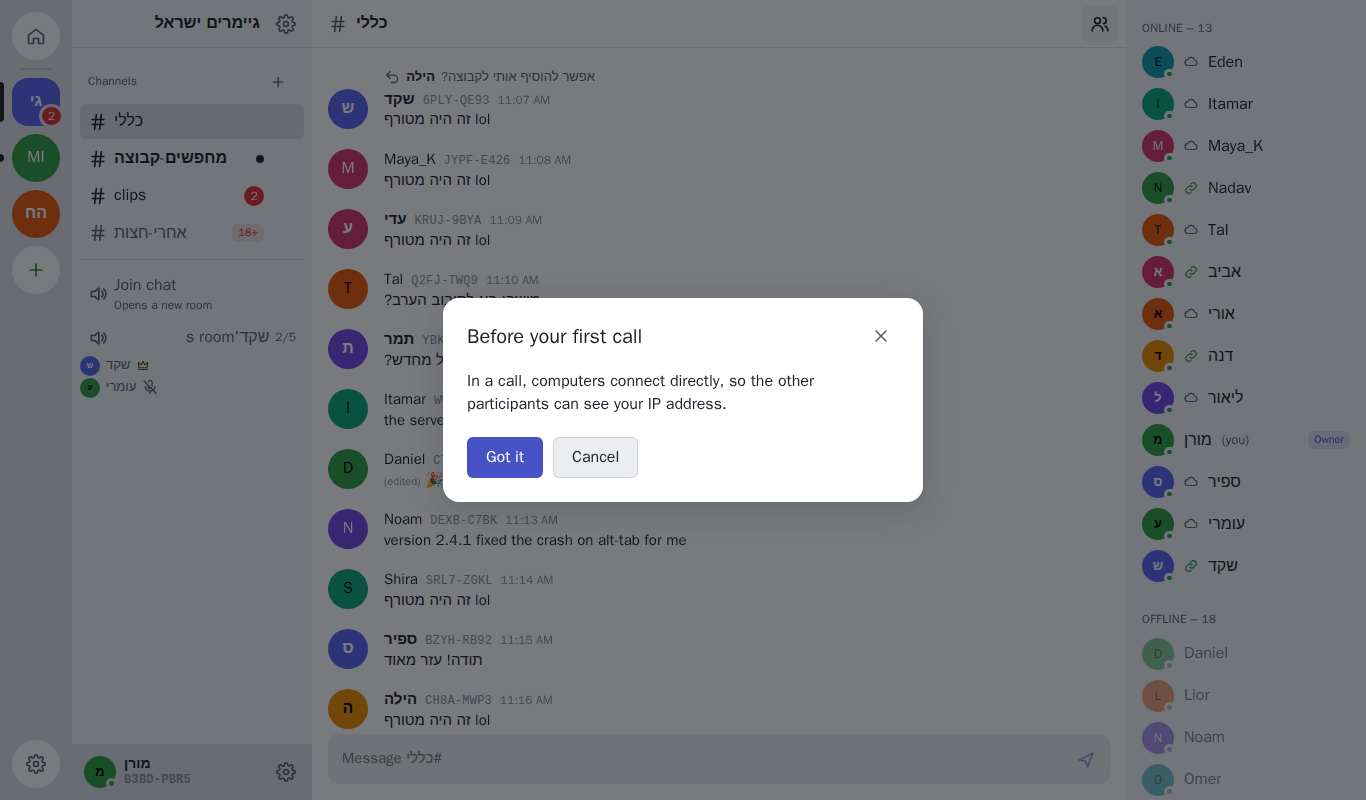
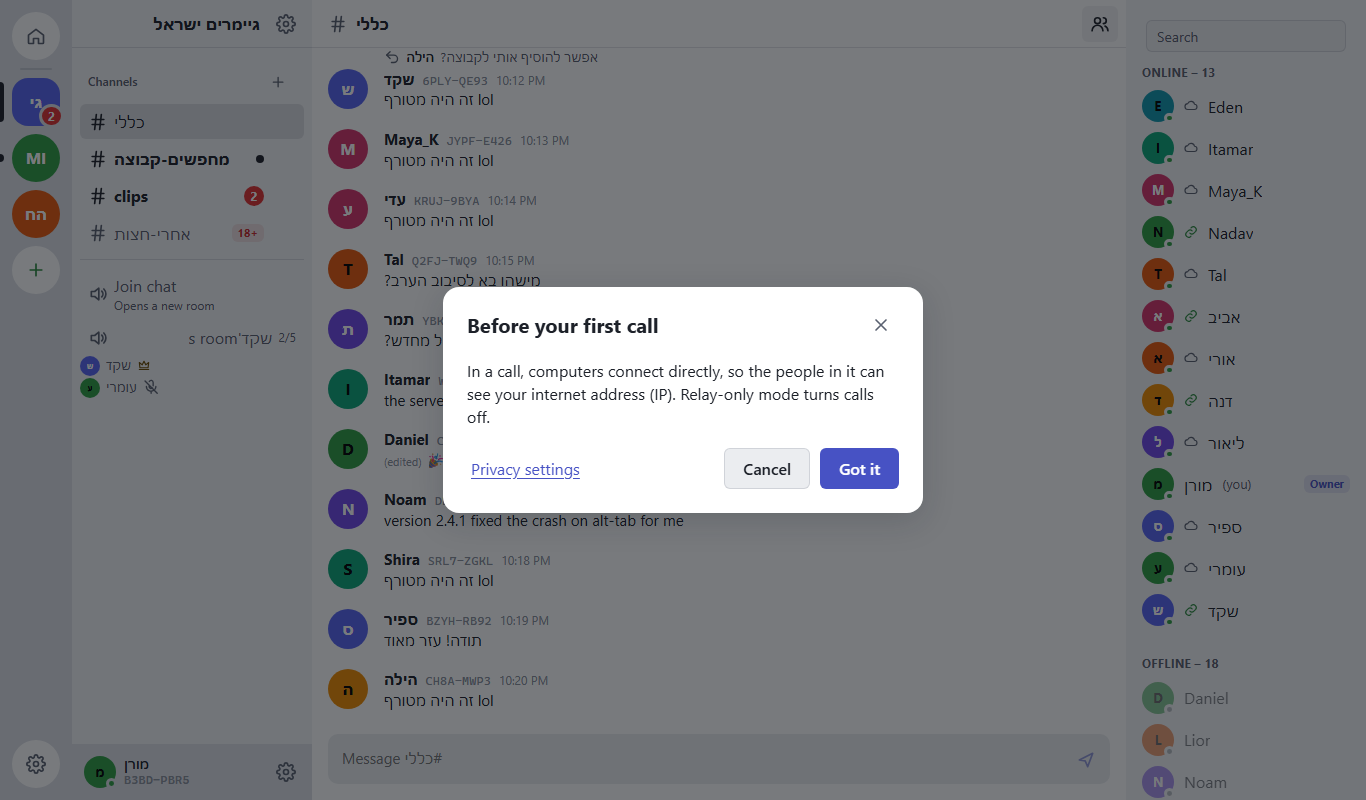
ui: voice IP notice v2 (G-81 STUN): public IP wording, a link to the relay-only switch, key v2
docs/ux/specs/voice-ip-notice.md v2 (#494), SL S2. With STUN, co-callers
learn my public IP: the one-time notice before the first join says so and
that relay-only turns calls off. A new "Privacy settings" link button
(start side; Tab order: settings, Cancel, Got it) neither joins nor
remembers, and opens Settings → Privacy on the relay-only switch. The
stored key is now mvs.notices.voiceIp.v2, so everyone sees it once more.
Screenshots 243 and 244 re-taken.

diff --git a/ui/src/test/voice.test.tsx b/ui/src/test/voice.test.tsx
@@ -74,7 +74,7 @@ const settings: Settings = { locale: 'en', theme: 'light', uiScale: 1, fontSize:
 
 /** `ipNoticeSeen: false` starts as on a computer that never joined a call. */
 async function setup(options: MockOptions = {}, { ipNoticeSeen = true, prefs = {} as Partial<Settings> } = {}) {
-  if (ipNoticeSeen) localStorage.setItem('mvs.notices.voiceIp.v1', '1');
+  if (ipNoticeSeen) localStorage.setItem('mvs.notices.voiceIp.v2', '1');
   const core = new MockCore({ demo: true, speed: 0, simulateActivity: false, ...options });
   render(<App core={core} initialSettings={{ ...settings, ...prefs }} />);
   await screen.findByRole('textbox', { name: /^Message / });
@@ -412,12 +412,12 @@ describe('voice rooms (0.4.3)', () => {
       const inRoom = async () => (await rooms(core))[0].members.length;
       await join();
       const dialog = screen.getByRole('dialog', { name: 'Before your first call' });
-      expect(document.getElementById(dialog.getAttribute('aria-describedby')!)?.textContent).toContain('can see your IP address');
+      expect(document.getElementById(dialog.getAttribute('aria-describedby')!)?.textContent).toContain('can see your internet address (IP)');
       expect(document.activeElement?.textContent).toBe('Got it');
       expect(await inRoom()).toBe(2); // joinCall not called yet
       await click(within(dialog).getByRole('button', { name: 'Got it' }));
       expect(await inRoom()).toBe(3);
-      expect(localStorage.getItem('mvs.notices.voiceIp.v1')).toBe('1');
+      expect(localStorage.getItem('mvs.notices.voiceIp.v2')).toBe('1');
       const bar = screen.getByRole('region', { name: 'Voice call' });
       await waitFor(() => expect(document.activeElement).toBe(within(bar).getByRole('button', { name: 'Mute' })));
       // Leave and open a room: no notice the second time.
@@ -440,10 +440,36 @@ describe('voice rooms (0.4.3)', () => {
       await click(within(screen.getByRole('dialog')).getByRole('button', { name: 'Cancel' }));
       expect(screen.queryByRole('dialog')).toBeNull();
       expect(screen.queryByRole('region', { name: 'Voice call' })).toBeNull();
-      expect(localStorage.getItem('mvs.notices.voiceIp.v1')).toBeNull();
+      expect(localStorage.getItem('mvs.notices.voiceIp.v2')).toBeNull();
       expect(document.activeElement).toBe(entry());
       await join();
       expect(screen.getByRole('dialog', { name: 'Before your first call' })).toBeTruthy();
+    });
+
+    it('v2: "Privacy settings" first in Tab order, then Cancel, then Got it; it says what relay-only does', async () => {
+      const { join } = await setup({}, { ipNoticeSeen: false });
+      await join();
+      const dialog = screen.getByRole('dialog', { name: 'Before your first call' });
+      expect(within(dialog).getAllByRole('button').map((b) => b.textContent).filter((t) => t !== '' && t !== 'Close')).toEqual(['Privacy settings', 'Cancel', 'Got it']);
+      expect(document.getElementById(dialog.getAttribute('aria-describedby')!)?.textContent).toContain('Relay-only mode turns calls off.');
+    });
+
+    it('v2: "Privacy settings" neither joins nor remembers; it opens Settings on the relay-only switch', async () => {
+      const { join } = await setup({}, { ipNoticeSeen: false });
+      await join();
+      await click(within(screen.getByRole('dialog', { name: 'Before your first call' })).getByRole('button', { name: 'Privacy settings' }));
+      expect(screen.queryByRole('region', { name: 'Voice call' })).toBeNull();
+      expect(localStorage.getItem('mvs.notices.voiceIp.v2')).toBeNull();
+      const relaySwitch = await screen.findByRole('switch', { name: /relay only/i });
+      await waitFor(() => expect(document.activeElement).toBe(relaySwitch));
+    });
+
+    it('v2: a computer that saw only the v1 notice sees it once more', async () => {
+      localStorage.setItem('mvs.notices.voiceIp.v1', '1');
+      const { join } = await setup({}, { ipNoticeSeen: false });
+      await join();
+      expect(screen.getByRole('dialog', { name: 'Before your first call' })).toBeTruthy();
+      localStorage.removeItem('mvs.notices.voiceIp.v1');
     });
 
     it('a full room shows no notice: the row is disabled', async () => {

diff --git a/ui/src/screens/shell/VoiceRooms.tsx b/ui/src/screens/shell/VoiceRooms.tsx
@@ -337,6 +337,28 @@ export function VoiceRooms({ server, myId, engine }: { server: ServerSummary; my
           <FormattedMessage id="call.ipNotice.body" />
         </p>
         <div className="actions">
+          {/* v2: to the relay-only switch; neither joins nor remembers (like Cancel). */}
+          <button
+            type="button"
+            className="link ip-notice-settings"
+            onClick={() => {
+              setPending(null);
+              returnTo.current?.focus(); // where focus comes back when Settings closes
+              store.openSettings('privacy');
+            }}
+          >
+            <FormattedMessage id="call.ipNotice.settings" />
+          </button>
+          <button
+            type="button"
+            className="secondary"
+            onClick={() => {
+              setPending(null);
+              returnTo.current?.focus();
+            }}
+          >
+            <FormattedMessage id="common.cancel" />
+          </button>
           <button
             type="button"
             className="primary"
@@ -350,16 +372,6 @@ export function VoiceRooms({ server, myId, engine }: { server: ServerSummary; my
             }}
           >
             <FormattedMessage id="call.ipNotice.ok" />
-          </button>
-          <button
-            type="button"
-            className="secondary"
-            onClick={() => {
-              setPending(null);
-              returnTo.current?.focus();
-            }}
-          >
-            <FormattedMessage id="common.cancel" />
           </button>
         </div>
       </Dialog>

diff --git a/ui/src/screens/shell/CallBar.tsx b/ui/src/screens/shell/CallBar.tsx
@@ -119,8 +119,12 @@ export const FAILURE_TEXT: Record<PeerFailure, [text: string, hint: string]> = {
   refused: ['call.peerRefused', 'call.peerRefusedHint'],
 };
 
-/** docs/ux/specs/voice-ip-notice.md: shown once per computer, before the first join. */
-const IP_NOTICE_KEY = 'mvs.notices.voiceIp.v1';
+/**
+ * docs/ux/specs/voice-ip-notice.md: shown once per computer, before the first
+ * join. v2 (G-81, STUN: co-callers can see my public IP): everyone sees it
+ * once more; v1 is no longer read.
+ */
+const IP_NOTICE_KEY = 'mvs.notices.voiceIp.v2';
 export function ipNoticeSeen(): boolean {
   try {
     return localStorage.getItem(IP_NOTICE_KEY) === '1';

diff --git a/ui/src/styles/app.css b/ui/src/styles/app.css
@@ -3749,3 +3749,8 @@ input.switch:disabled {
   align-items: center;
   gap: 0.5rem;
 }
+
+/* Voice IP notice v2: "Privacy settings" on the start side, Cancel and Got it at the end. */
+.ip-notice .ip-notice-settings {
+  margin-inline-end: auto;
+}
